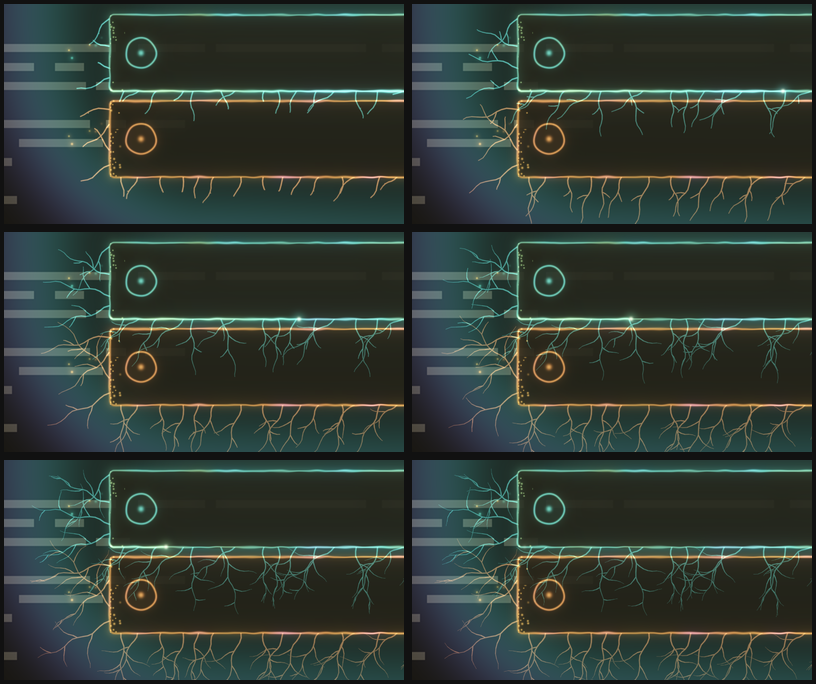
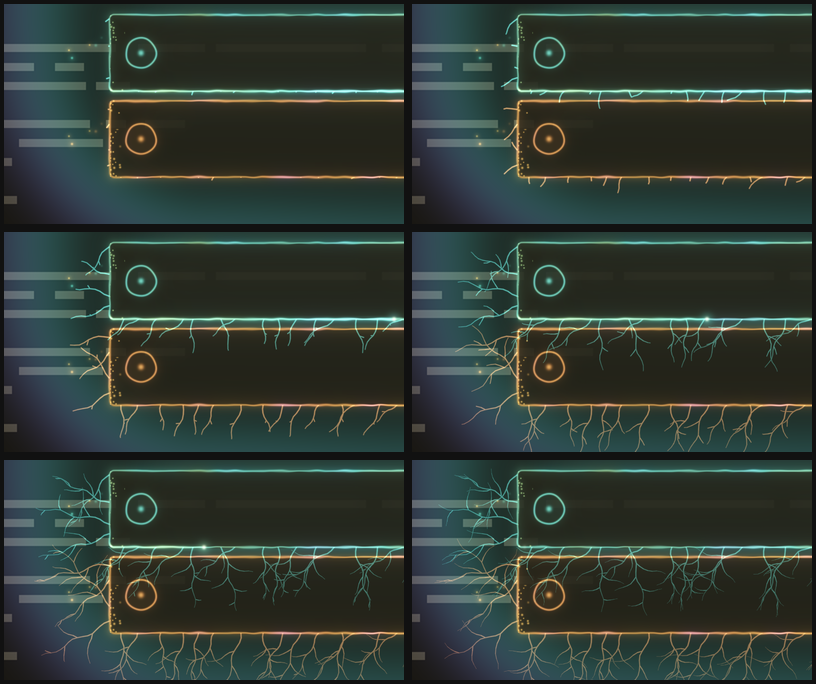
Growth: tune the roots' pace against the recording's apparent activity
The recording's visible root ink gained 43, 19, 12, 9, 8, 6 and 3 points per second of an 8 s toast: activity halved from the first
second to the second and so seemed to lessen too soon. test/growth-activity.py measures the same thing on the compiled shader (within
about five points of the recording). A search over the trunk curve and the shoot schedule gave a trunk of 65% exponential (rate 3.5)
and 35% gentle ease-out, with shoots from 16% of the life in 16% steps and a more linear ease: 34, 25, 13, 11, 8, 6 and 2 per second.

Claude-Session: https://claude.ai/code/session_01RawmEkvnbUV4A7X3Nfo38z

diff --git a/test/growth-activity.py b/test/growth-activity.py
@@ -1,0 +1,23 @@
+# Usage: gcc -O2 test/shader-harness.c -o $TMPDIR/harness -lEGL -lGLESv2; qsb -x 'glsl,100 es' -o $TMPDIR/g.frag shaders/toastgrowth.frag.qsb
+#        $TMPDIR/venv/bin/python3 test/growth-activity.py $TMPDIR/g.frag   (needs numpy and pillow)
+# Video-like root "ink" profile of a compiled growth shader, through the harness: for each life-second, the high-pass ink
+# (pixels more than 22/255 brighter than their 5 px blur, as measured on the recording) outside the card, as % of the final, averaged over seeds.
+import subprocess, sys, os, numpy as np
+from PIL import Image, ImageFilter
+frag=sys.argv[1]; H=os.environ.get("HARNESS", os.environ.get("TMPDIR","/tmp")+"/harness"); tmp=os.environ.get("TMPDIR","/tmp")
+secs=[1,2,3,4,5,6,7]; seeds=[7,41,3,19]; OFF=0.4   # the recording starts counting when the toast appears, about half a second after its countdown began
+def render(g,seed):
+    subprocess.run([H,frag,"440","150",tmp+"/p.pam"],env=dict(os.environ,EGL_PLATFORM="surfaceless",LIBGL_ALWAYS_SOFTWARE="1",U_time="3",U_energy="1",U_vividness="0.75",U_urgency="1",U_radius="5",U_seed=str(seed),U_growth=str(g),U_size="440,150",U_card="130,30,300,90",U_icon="0,0,0",U_remaining="-1",U_spores="0"),stderr=subprocess.DEVNULL,check=True)
+    d=open(tmp+"/p.pam","rb").read(); e=d.index(b"ENDHDR\n")+7
+    a=np.frombuffer(d[e:],np.uint8).reshape(150,440,4)[...,:3]
+    im=Image.fromarray(a); b=np.asarray(im.filter(ImageFilter.GaussianBlur(5))).astype(np.float32)
+    hp=(a.astype(np.float32)-b).max(-1)>22
+    m=np.ones((150,440),bool); m[:, :]=True; m[28:122,128:432]=False; m[:30,128:]=False   # outside the card, not above it
+    return hp[m].sum()
+res=[]
+for seed in seeds:
+    fin=render(1.0,seed); base=render(0.0,seed)
+    res.append([100*(render((s+OFF)/8,seed)-base)/(fin-base) for s in secs])
+r=np.mean(res,0); prev=0
+print("life-s  ink%  gain   (recording: 43/62/74/83/91/97/100, gains 43 19 12 9 8 6 3)")
+for s,v in zip(secs,r): print(f"{s:4d}s  {v:5.0f}  +{v-prev:3.0f}"); prev=v

diff --git a/docs/design/README.md b/docs/design/README.md
@@ -84,7 +84,15 @@ mock-up C, whose wavy outline and ragged strip read as glitches:
   jittered), once the trunk has reached their step, grow with a gentler ease-out, and are full at 97 to 99.5%. So something is always
   still sprouting or extending to the end of the countdown. Net root ink (excluding the rim's constant halo), as a share of the final,
   after 1, 2, 3, 4, 5, 6, 7 s of an 8 s toast: was 21, 77, 92, 96, 98, 99, 99; now 17, 55, 68, 79, 88, 93, 98. The roots end up
-  branchier (four shoots instead of two). Fainter veins grow across the card from its right corners.
+  branchier (four shoots instead of two).
+  **Tuning the pace against the recording** (2026-10-31, "the apparent amount of activity lessens too soon; slow the fast stage a bit and
+  push the slowdown later"): `test/growth-activity.py` measures, on the compiled shader, the same thing as the recording (high-pass ink
+  outside the card, pixels more than 22/255 above their 5 px blur, as a share of the final, per second of life; it agrees with the
+  recording to within about five points). The recording gained 43, 19, 12, 9, 8, 6 and 3 points per second: activity halved from the
+  first second to the second. A search over the trunk curve and the shoot schedule (the trunk barely moves the ink; the shoots do)
+  settled on a trunk of 65% exponential (rate 3.5) and 35% gentle ease-out, with shoots starting from 16% of the life in steps of 16% and
+  a more linear ease (power 1.5): gains of 34, 25, 13, 11, 8, 6 and 2 points per second (cumulative 34, 59, 72, 83, 91, 97 and 100).
+  Fainter veins grow across the card from its right corners.
 - **The countdown is the bottom border itself, lit**: drawn from the same distance field and sway as the outline, so it lies
   exactly on it and the two read as one line (the first version ran 3 px above the border, which the user saw as two lines).
   Where there is time left the border is brighter and thicker, its thickness undulating along it like a vein; the part that has run

diff --git a/AGENTS.md b/AGENTS.md
@@ -296,6 +296,14 @@ visible *ink* over time (video or harness), not by the trunk's length curve; and
 decelerating curve vs growth to the very end) look for a way to give the eye something moving instead of bending the curve.
 Untested apart from renders and the ink measurement.
 
+**Roots, round 9 (2026-10-31): tuning "apparent activity".** The user wants the roots alone to be able to show the toast's timing (the
+countdown line could then go), and said the activity lessened too soon. `test/growth-activity.py` measures the per-second visible ink on
+the compiled shader like the recording (agrees within ~5 points); the trunk curve hardly moves it, the shoot schedule does. Result: trunk
+65% exp(3.5) + 35% ease-out, shoots from 16% of the life in 16% steps with ease power 1.5; gains 34/25/13/11/8/6/2 per second (were
+43/19/12/9/8/6/3). **Do not run searches with a bare `&` or `( ... &)`**: the process is killed when the command ends, and nothing is
+printed until the end of a long script. Use `run_in_background` and print each result as it arrives (threads, not processes: the sandbox
+forbids the unix sockets multiprocessing needs). The remaining question is whether the user judges it good enough to drop the countdown line.
+
 ## Conventions
 
 - Match the surrounding (Omarchy's) QML style in vendored files: terse comments that explain why, no tutorials.
